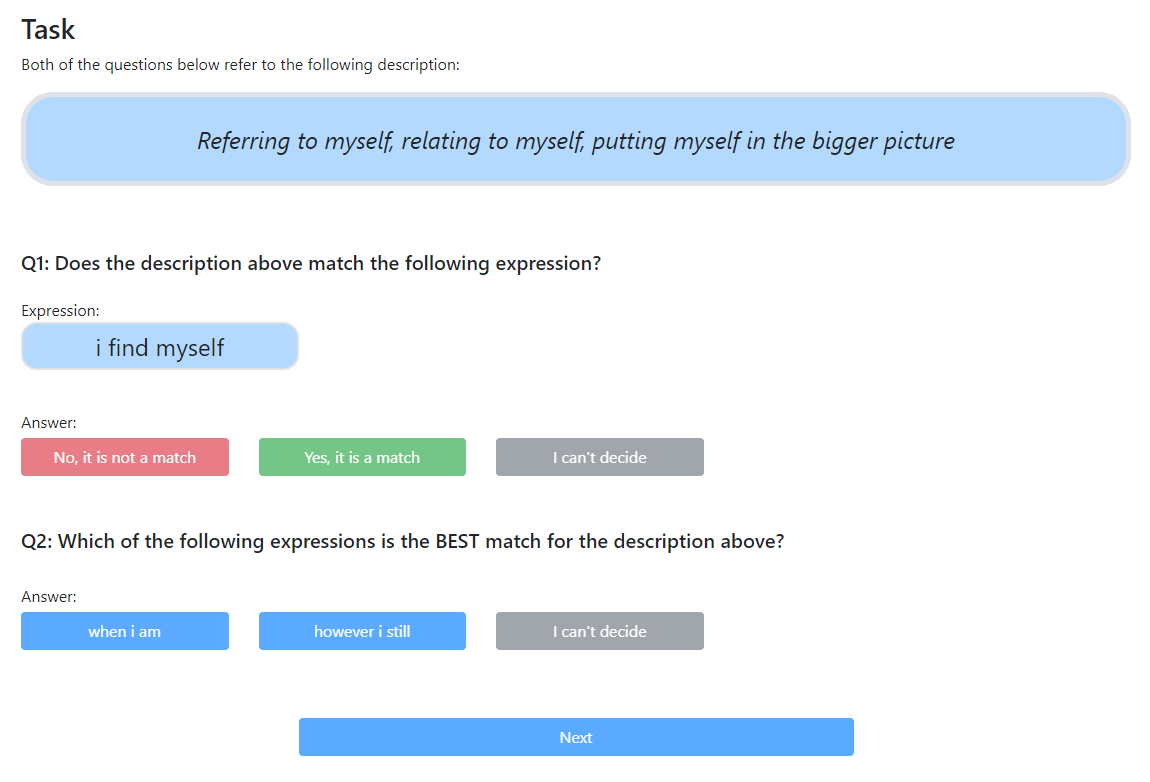
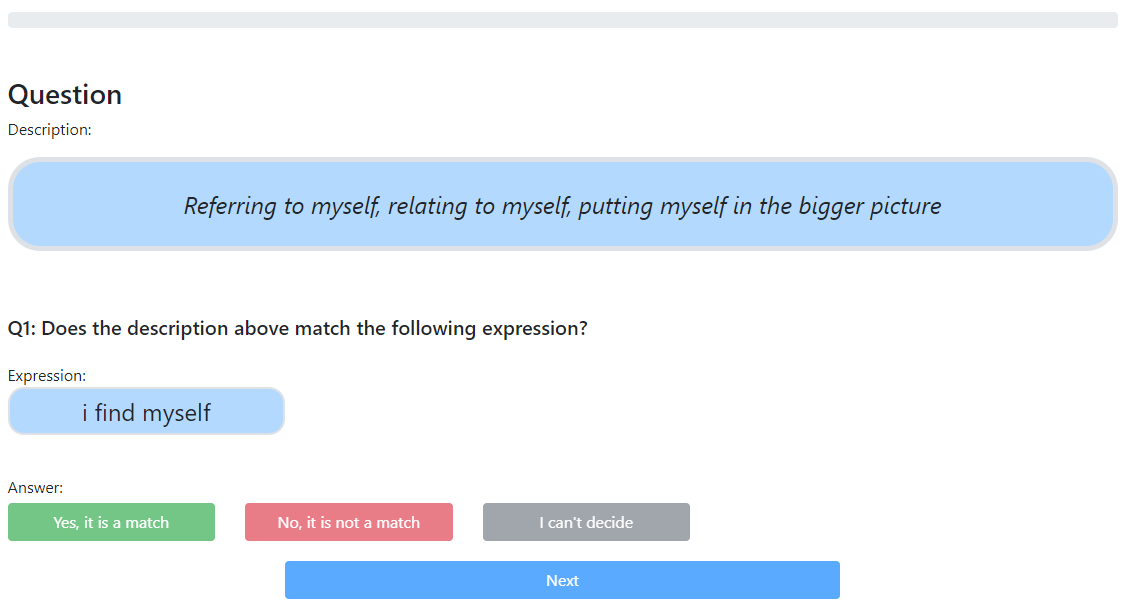
new survey

diff --git a/src/pages/NgramComponent.js b/src/pages/NgramComponent.js
@@ -7,7 +7,7 @@ class NgramComponent extends React.Component {
         this.state = {
             isDescription: false,
             isResponse: false,
-            isResponseHL: false,
+            isResponseHL: true,
             random:  Math.floor(Math.random() * 2),
             descriptionChange: false,
             response: 0,
@@ -57,7 +57,7 @@ class NgramComponent extends React.Component {
         this.setState({
             isDescription: false,
             isResponse: false,
-            isResponseHL: false,
+            isResponseHL: true,
             random: Math.floor(Math.random() * 2)
         })
     }
@@ -67,24 +67,62 @@ class NgramComponent extends React.Component {
             this.refR1.current.className = this.refR1.current.className.replace(" active", "")
             this.refR2.current.className = this.refR2.current.className.replace(" active", "")
             this.refR3.current.className = this.refR3.current.className.replace(" active", "")
-            this.refC1.current.className = this.refC1.current.className.replace(" active", "")
-            this.refC2.current.className = this.refC2.current.className.replace(" active", "")
-            this.refC3.current.className = this.refC3.current.className.replace(" active", "")
+            //this.refC1.current.className = this.refC1.current.className.replace(" active", "")
+            //this.refC2.current.className = this.refC2.current.className.replace(" active", "")
+            //this.refC3.current.className = this.refC3.current.className.replace(" active", "")
             this.setState({
                 isDescription: false,
                 isResponse: false,
-                isResponseHL: false,
+                isResponseHL: true,
                 random: Math.floor(Math.random() * 2),
                 descriptionChange: prevProps.description !== this.props.description
             })
         }
     }
 
+    q2() {
+        return(
+            <div className='row mb-5'>
+                    <div className='col-md-12 mt-5'>
+                        <h5>Q2: Which of the following expressions is the BEST match for the description above?</h5>
+                    </div>                                        
+                    <div className='col-xl-10 col-lg-12 col-md-12'>
+                        <p className="mt-4 mb-0">Answer:</p>
+                        <div className='row'>
+                        <div className='col-lg-3 col-md-6 my-1'>
+                            <button ref={this.refC1}
+                            className='btn btn-primary btn-block' 
+                            onClick={(e) => this.setResponseCompare(e, this.props.data[this.state.random === 0 ? 'ngramHId' : 'ngramLId'])} 
+                            disabled={!this.state.isDescription}>
+                                    {this.props.data[this.state.random === 0 ? 'ngramH' : 'ngramL']}
+                            </button>
+                        </div>
+                        <div className='col-lg-3 col-md-6 my-1'>
+                            <button ref={this.refC2}
+                            className='btn btn-primary btn-block' 
+                            onClick={(e) => this.setResponseCompare(e, this.props.data[this.state.random === 0 ? 'ngramLId' : 'ngramHId'])} 
+                            disabled={!this.state.isDescription}>
+                                {this.props.data[this.state.random === 0 ? 'ngramL' : 'ngramH']}
+                            </button>
+                        </div>
+                        <div className='col-lg-3 col-md-6 my-1'>
+                            <button ref={this.refC3}
+                            className='btn btn-secondary btn-block' 
+                            onClick={(e) => this.setResponseCompare(e, 0)}
+                            disabled={!this.state.isDescription}>
+                                I can't decide
+                            </button>
+                        </div>
+                    </div>
+                </div>                      
+            </div>
+        )
+    }
+
     render() {
         return(
             <div className='ngram'>
-                <h3>Task</h3>
-                <p>Both of the questions below refer to the following description:</p>
+                <h5>Description</h5>
                 <p className={`big-text description ${this.state.descriptionChange ? 'changed' : ''} ${this.state.isDescription ? 'clicked' : ""}`} onClick={() => this.setState({isDescription: true})}>
                     <i>
                         {this.props.description == null ? 
@@ -94,7 +132,7 @@ class NgramComponent extends React.Component {
                 </p>
                 <div className='row'>               
                     <div className='col-md-12 mt-5'>
-                        <h5>Q1: Does the description above match the following expression?</h5>
+                        <h5>Does the description above match the following expression?</h5>
                         <p className="mt-4 mb-0">Expression:</p>
                         <p className="big-text expression">{this.props.data['ngram']}</p>
                     </div>                      
@@ -127,41 +165,7 @@ class NgramComponent extends React.Component {
                             </div>
                         </div>
                     </div>                      
-                </div>
-                <div className='row mb-5'> 
-                    <div className='col-md-12 mt-5'>
-                        <h5>Q2: Which of the following expressions is the BEST match for the description above?</h5>
-                    </div>                                        
-                    <div className='col-xl-10 col-lg-12 col-md-12'>
-                        <p className="mt-4 mb-0">Answer:</p>
-                        <div className='row'>
-                        <div className='col-lg-3 col-md-6 my-1'>
-                                <button ref={this.refC1}
-                                className='btn btn-primary btn-block' 
-                                onClick={(e) => this.setResponseCompare(e, this.props.data[this.state.random === 0 ? 'ngramHId' : 'ngramLId'])} 
-                                disabled={!this.state.isDescription}>
-                                        {this.props.data[this.state.random === 0 ? 'ngramH' : 'ngramL']}
-                                </button>
-                            </div>
-                            <div className='col-lg-3 col-md-6 my-1'>
-                                <button ref={this.refC2}
-                                className='btn btn-primary btn-block' 
-                                onClick={(e) => this.setResponseCompare(e, this.props.data[this.state.random === 0 ? 'ngramLId' : 'ngramHId'])} 
-                                disabled={!this.state.isDescription}>
-                                    {this.props.data[this.state.random === 0 ? 'ngramL' : 'ngramH']}
-                                </button>
-                            </div>
-                            <div className='col-lg-3 col-md-6 my-1'>
-                                <button ref={this.refC3}
-                                className='btn btn-secondary btn-block' 
-                                onClick={(e) => this.setResponseCompare(e, 0)}
-                                disabled={!this.state.isDescription}>
-                                    I can't decide
-                                </button>
-                            </div>
-                        </div>
-                    </div>                      
-                </div>
+                </div>               
                 <div className='row mb-5'>
                     <div className='col-md-12 mt-3 d-flex'>
                         <button className='btn btn-primary btn-block w-50 mx-auto' disabled={!this.state.isResponse || !this.state.isResponseHL} onClick={() => this.next()}>Next</button>

diff --git a/src/pages/Tutorial.js b/src/pages/Tutorial.js
@@ -32,7 +32,7 @@ function Tutorial() {
         <div className='row'>
             <div className='col-md-12'>
                 <h1 className='mt-5'>Tutorial</h1>
-                <p>The tasks below are similar to the survey. The survey has a total of 80 tasks and every 20 tasks the description will change. To start a task you need to click the description, this will enable the answers buttons. Once you have selected your answer, click next to proceed to the next task. When the description is highlighted with yellow, it means that the description has changed. Please make yourself familiar with how the survey will work. The answers provided during the tutorial are not recorded.</p>
+                <p>The questions below are similar to the survey. The survey has a total of 50 questions with one description. To start answering you need to click the description, this will enable the answers buttons. Once you have selected your answer, click next to proceed to the next question. Please make yourself familiar with how the survey will work. The answers provided during the tutorial are not recorded.</p>
                 {<Survey isTutorial={true} isFinished={isFinished} />}
                 {finished ? 
                     <button className='btn btn-primary btn-lg btn-block' onClick={() => startSurvey()} disabled={isLoading}>

diff --git a/src/pages/Home.js b/src/pages/Home.js
@@ -46,7 +46,7 @@ function Home() {
           being willing to answer questions for research, and because your primary language is English.</p>
         <h4 className="mt-4">Participation</h4>
         <p>Participation will involve answering questions about whether you think groups of words match or don't match a written description. 
-          Questions are grouped into a prolific task that is expected to take approximately 20 minutes of your time for which you will be 
+          Questions are grouped into a prolific task that is expected to take approximately 5 minutes of your time for which you will be 
           paid according to the rate advertised on Prolific. Questions will be in the following format:</p>
         <img src='question_example.png' className='img-fluid' />
         <p>Your participation in this project is entirely voluntary. If you agree to participate you do not have to complete any question(s) 

diff --git a/src/pages/Survey.js b/src/pages/Survey.js
@@ -37,7 +37,7 @@ function Survey({isTutorial, isFinished}) {
                 },
                 {
                     'surveyQuestionId': 2, 
-                    'categoryId': 'BB', 
+                    'categoryId': 'AA', 
                     'ngram': 'they do n\'t', 
                     'ngramHId': 5, 
                     'ngramH': 'where i can', 
@@ -46,7 +46,7 @@ function Survey({isTutorial, isFinished}) {
                 },
                 {
                     'surveyQuestionId': 3, 
-                    'categoryId': 'BB', 
+                    'categoryId': 'AA', 
                     'ngram': 'hopefully i can', 
                     'ngramHId': 7, 
                     'ngramH': 'i plan to', 
